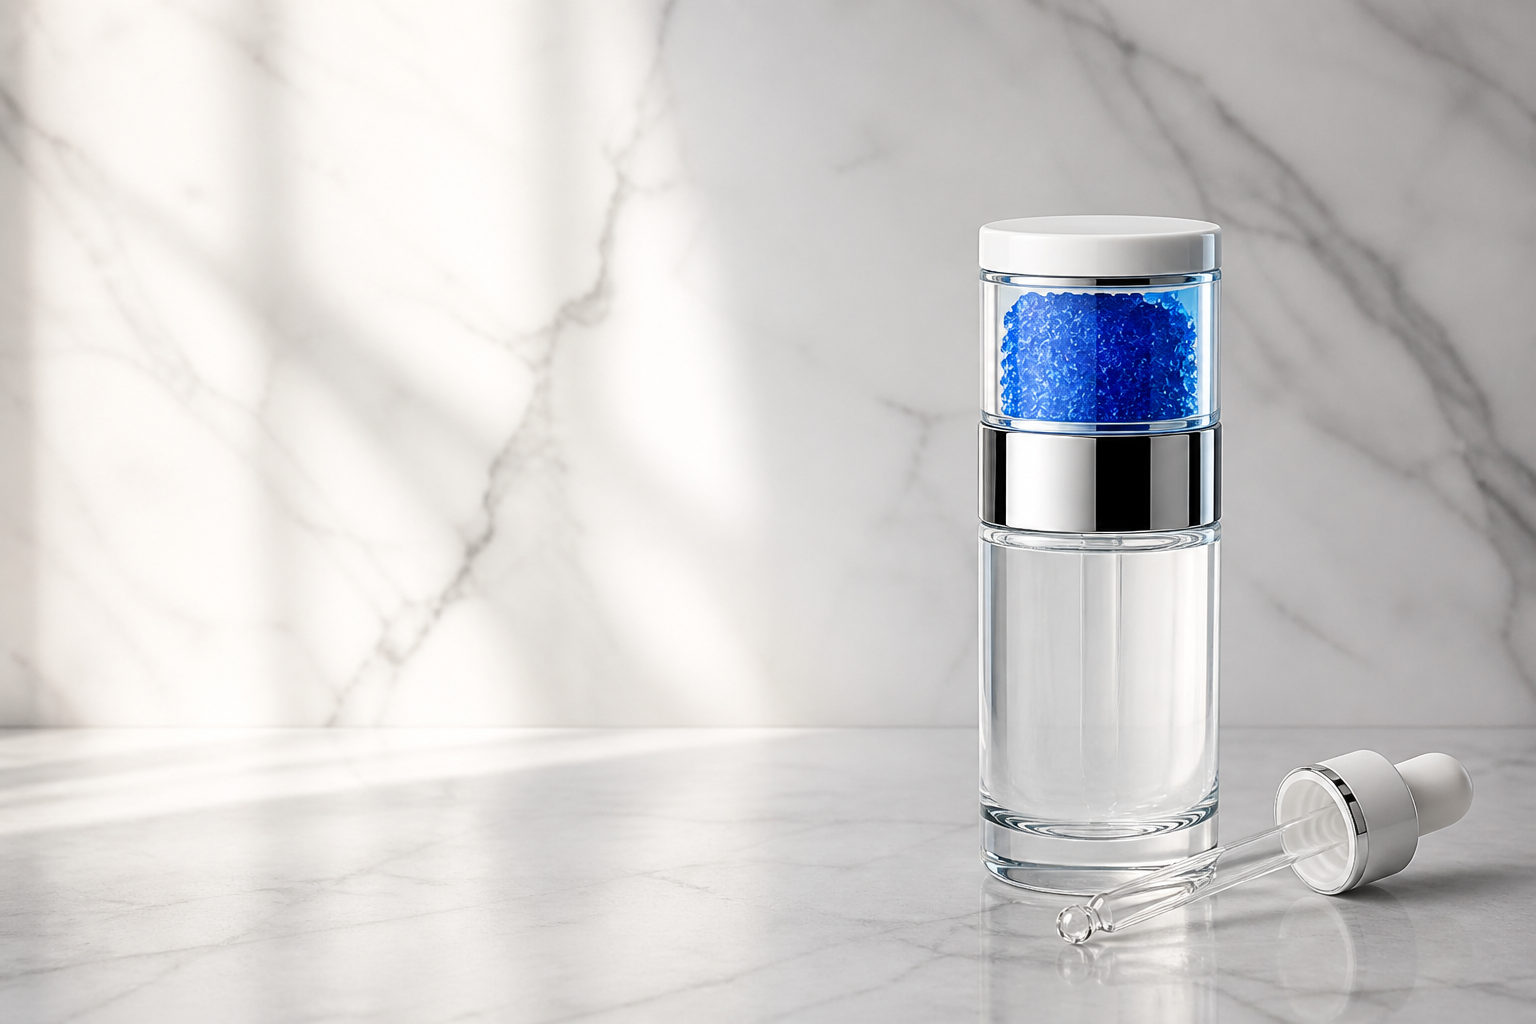
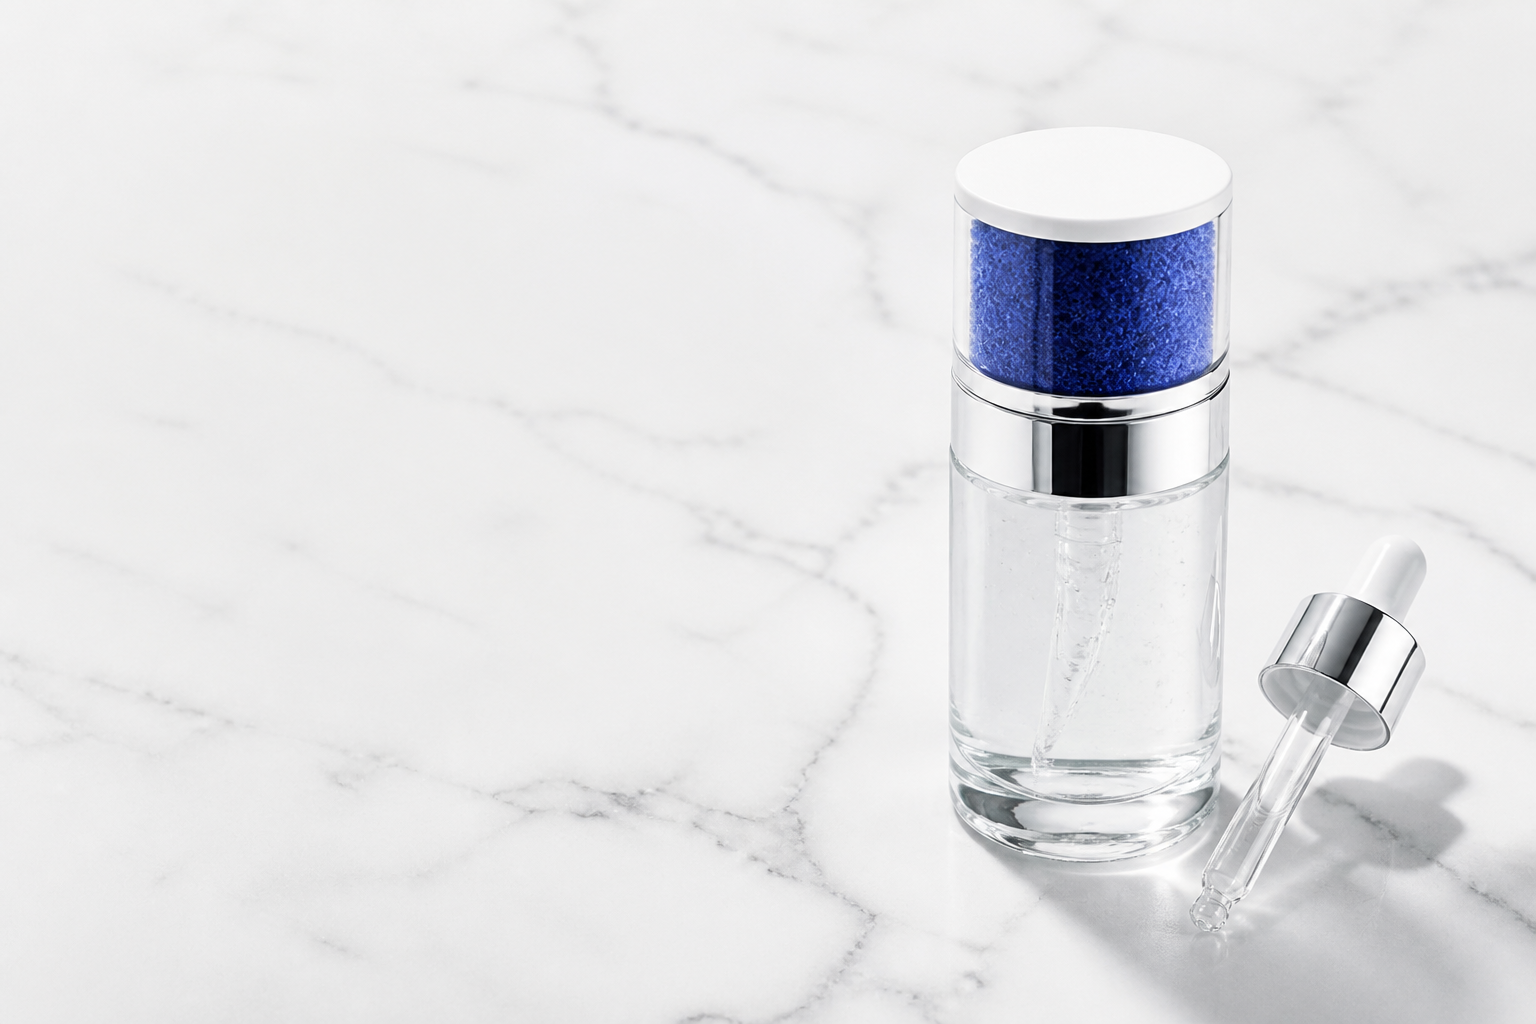
Pin WellPept hero copy left; drop clinical marketing language
Stronger left-safe hero layout, Fresh Mix wording instead of clinical
skincare claims, and fine salt-texture cobalt GHK-Cu powder imagery.

diff --git a/src/index.css b/src/index.css
@@ -2087,7 +2087,17 @@ body:has(.app-shell--skincare) {
 
 .skin-hero .hero-content {
   padding: 5.5rem 0 4.25rem;
-  max-width: 34rem;
+  max-width: 28rem;
+  margin-right: auto;
+  margin-left: 0;
+  position: relative;
+  z-index: 2;
+}
+
+.skin-hero .container.hero-content {
+  width: min(28rem, calc(100% - 2rem));
+  margin-left: max(1rem, calc((100% - min(var(--max), calc(100% - 2rem))) / 2));
+  margin-right: auto;
 }
 
 .skin-hero .hero-tagline {
@@ -2101,7 +2111,7 @@ body:has(.app-shell--skincare) {
 }
 
 .skin-hero .hero-copy {
-  max-width: 26rem;
+  max-width: 24rem;
   font-size: 0.98rem;
   line-height: 1.65;
   color: var(--ink-soft);
@@ -2111,9 +2121,30 @@ body:has(.app-shell--skincare) {
   letter-spacing: 0.14em;
 }
 
+.skin-hero .hero-brand-lockup {
+  justify-content: flex-start;
+}
+
 .skin-hero .hero-brand-mark {
   border: 1px solid rgba(0, 47, 117, 0.18);
   box-shadow: 0 20px 50px rgba(0, 47, 117, 0.1);
+  width: clamp(4.25rem, 10vw, 5.75rem);
+  height: clamp(4.25rem, 10vw, 5.75rem);
+}
+
+.skin-hero .hero-media,
+.skin-hero-media {
+  background:
+    linear-gradient(
+      95deg,
+      rgba(255, 255, 255, 1) 0%,
+      rgba(255, 255, 255, 0.97) 34%,
+      rgba(255, 255, 255, 0.55) 52%,
+      rgba(255, 255, 255, 0.12) 68%,
+      transparent 82%
+    ),
+    url("/skincare/hero-wide.png") right center / cover no-repeat !important;
+  animation: hero-drift 22s ease-in-out infinite alternate;
 }
 
 .skin-nav-links {
@@ -2157,20 +2188,6 @@ body:has(.app-shell--skincare) {
 .lab-banner .ghost-btn {
   color: #fff;
   border-color: rgba(255, 255, 255, 0.35);
-}
-
-.skin-hero .hero-media,
-.skin-hero-media {
-  background:
-    linear-gradient(
-      100deg,
-      rgba(255, 255, 255, 0.97) 0%,
-      rgba(255, 255, 255, 0.78) 28%,
-      rgba(255, 255, 255, 0.2) 52%,
-      rgba(255, 255, 255, 0.05) 100%
-    ),
-    url("/skincare/hero-wide.png") right center / cover no-repeat !important;
-  animation: hero-drift 22s ease-in-out infinite alternate;
 }
 
 .skin-trust {

diff --git a/index.html b/index.html
@@ -3,15 +3,15 @@
   <head>
     <meta charset="UTF-8" />
     <meta name="viewport" content="width=device-width, initial-scale=1.0" />
-    <title>WellPept — Clinical Skincare</title>
+    <title>WellPept — Fresh Mix Skincare</title>
     <meta
       name="description"
-      content="WellPept skincare — clinical textures, restrained formulas, quiet finish. Ships to the United States."
+      content="WellPept Fresh Mix — topical peptides sealed dry until you activate into serum or cream. Ships to the United States."
     />
     <link rel="icon" type="image/svg+xml" href="/wp-monogram.svg" />
     <link rel="alternate icon" type="image/svg+xml" href="/wp-monogram.svg" />
     <meta property="og:image" content="/wellpept-brand.png" />
-    <meta property="og:title" content="WellPept — Clinical Skincare" />
+    <meta property="og:title" content="WellPept — Fresh Mix Skincare" />
     <link rel="preconnect" href="https://fonts.googleapis.com" />
     <link rel="preconnect" href="https://fonts.gstatic.com" crossorigin />
     <link

diff --git a/src/App.jsx b/src/App.jsx
@@ -692,7 +692,7 @@ export default function App() {
                 {labUnlocked ? "Undisclosed" : "WellPept"}
               </span>
               <span className="brand-sub">
-                {labUnlocked ? "Research lab" : "Clinical skincare"}
+                {labUnlocked ? "Research lab" : "Fresh Mix skincare"}
               </span>
             </span>
           </button>
@@ -1602,7 +1602,7 @@ export default function App() {
             <div>
               {labUnlocked
                 ? "Undisclosed — research peptides for laboratory use"
-                : "Clinical skincare — white light, cobalt purity"}
+                : "Fresh Mix skincare — white light, cobalt signal"}
             </div>
           </div>
           <p className="disclaimer">

diff --git a/src/components/SkincareHome.jsx b/src/components/SkincareHome.jsx
@@ -317,7 +317,7 @@ export default function SkincareHome({
             <h2>WellPept skincare</h2>
             <p>
               Fresh Mix keeps topical peptides dry until you activate them into your chosen
-              base. Ready formulas handle the rest — same clinical restraint, white light,
+              base. Ready formulas handle the rest — restrained formulas, white light,
               cobalt signal.
             </p>
             <p className="meta" style={{ marginTop: "1rem" }}>
